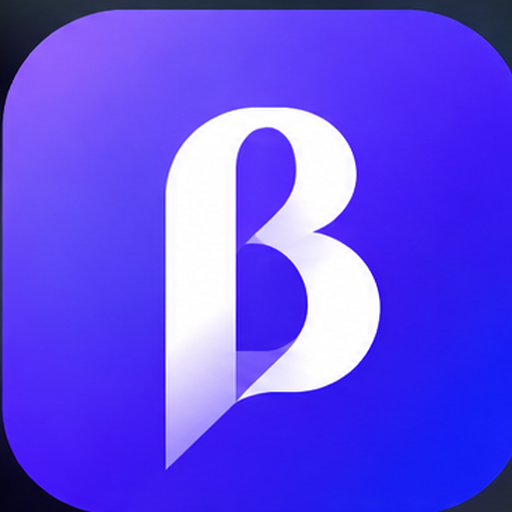
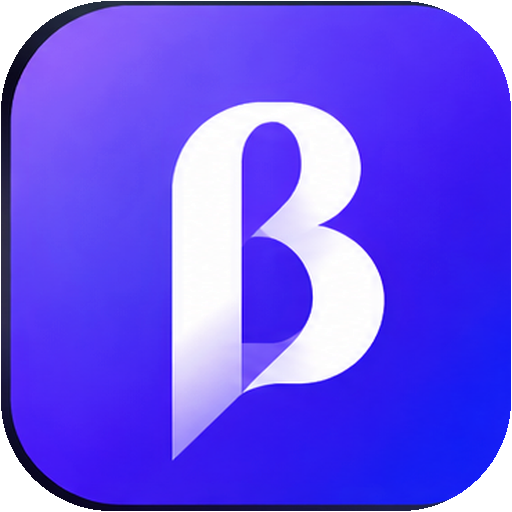
fix: limpa icone e reposiciona destaque de experiencia

diff --git a/oibeta-site/app/page.tsx b/oibeta-site/app/page.tsx
@@ -44,7 +44,7 @@ export default function HomePage() {
     <main>
       <header className="site-header mobile-site-header">
         <a className="brand" href="#inicio" aria-label="OI BETA Tecnologia">
-          <Image className="brand-symbol-image" src="/oibeta-icon.png" alt="" width={38} height={38} />
+          <Image className="brand-symbol brand-symbol-image" src="/oibeta-icon.png" alt="" width={38} height={38} />
           <span><strong>OI BETA</strong><small>TECNOLOGIA</small></span>
         </a>
         <a className="header-action" href={WHATSAPP_URL} target="_blank" rel="noreferrer">
@@ -64,7 +64,7 @@ export default function HomePage() {
 
         <div className="hero-desktop-layer">
           <div className="hero-brand">
-            <Image className="hero-brand-symbol-image" src="/oibeta-icon.png" alt="" width={70} height={70} priority />
+            <Image className="hero-brand-symbol hero-brand-symbol-image" src="/oibeta-icon.png" alt="" width={70} height={70} priority />
             <span>
               <strong>OI BETA</strong>
               <small>TECNOLOGIA</small>
@@ -101,7 +101,7 @@ export default function HomePage() {
 
             <div className="hero-years">
               <span>Estamos há</span>
-              <strong>+8 Anos</strong>
+              <strong>+ de 8 Anos.</strong>
               <small>
                 Desenvolvendo soluções que geram
                 <b> eficiência, transparência e impacto real.</b>
@@ -145,7 +145,7 @@ export default function HomePage() {
             <a className="btn btn-ghost" href="#solucoes">Conheça nossas soluções</a>
           </div>
           <div className="hero-mobile-proof">
-            <strong>+8 Anos</strong>
+            <strong>+ de 8 Anos.</strong>
             <span>Desenvolvendo soluções que geram eficiência, transparência e impacto real.</span>
           </div>
         </div>
@@ -291,7 +291,7 @@ export default function HomePage() {
 
       <footer className="footer">
         <div className="brand footer-brand">
-          <Image className="brand-symbol-image" src="/oibeta-icon.png" alt="" width={38} height={38} />
+          <Image className="brand-symbol brand-symbol-image" src="/oibeta-icon.png" alt="" width={38} height={38} />
           <span>
             <strong>OI BETA</strong>
             <small>TECNOLOGIA</small>

diff --git a/oibeta-site/app/globals.css b/oibeta-site/app/globals.css
@@ -355,7 +355,7 @@ svg {
 
 .hero-years {
   width: min(360px, 64%);
-  margin-top: clamp(22px, 2.6vh, 30px);
+  margin-top: clamp(105px, 15vh, 150px);
   margin-left: clamp(56px, 17%, 140px);
   display: flex;
   flex-direction: column;
@@ -667,7 +667,7 @@ svg {
   }
 
   .hero-years {
-    margin-top: 14px;
+    margin-top: clamp(48px, 8vh, 72px);
   }
 
   .hero-years > strong {
@@ -828,4 +828,23 @@ svg {
   background: transparent;
   font-size: 0;
   flex: 0 0 auto;
+}
+
+
+/* OI BETA — acabamento do ícone e posição do bloco de experiência */
+.brand-symbol-image,
+.hero-brand-symbol-image {
+  display: block;
+  clip-path: inset(0 round 22%);
+  border-radius: 22%;
+}
+
+.hero-brand {
+  isolation: isolate;
+}
+
+@media (max-width: 900px) {
+  .hero-years {
+    margin-top: 28px;
+  }
 }
